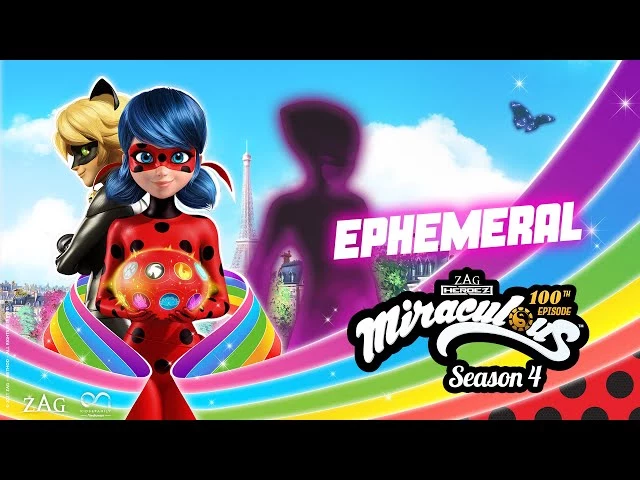
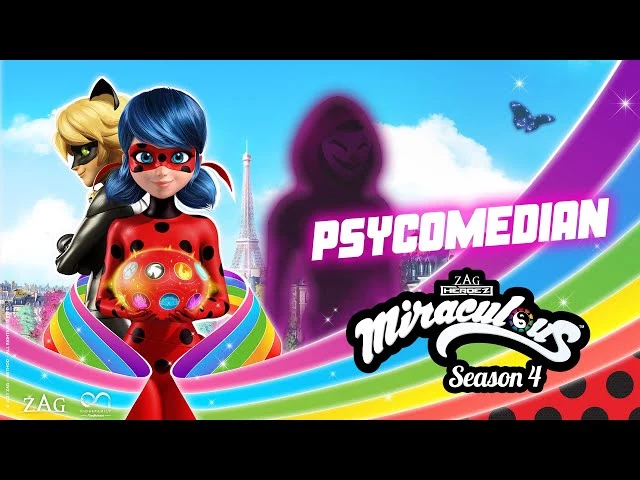
Update YouTube video and next release

Changed region(s): [[0.375, 0.1875, 0.9688, 0.7812]]

diff --git a/javascripts/script.js b/javascripts/script.js
@@ -1,6 +1,6 @@
 var oneDay = 24*60*60*1000;
 var latestRelease = new Date("2021-11-27T10:00:00-06:00"); // Newest Episode Release
-//var nextRelease = new Date("2021-11-27T09:30:00-06:00"); // Next Episode release
+var nextRelease = new Date("2022-02-05T09:30:00-06:00"); // Next Episode release
 var mode = 0; //DD:HH:MM:SS mode is default
 var lastHiatusMention = null;
 	
@@ -130,7 +130,7 @@ var hiatusList = [
 ['Miracle Queen','Truth','Nov 23 2019','May 15 2021',539,''],
 ['Mega Leech','Crocoduel','Aug 14 2021','Sep 17 2021',34,''],
 ['Crocoduel','Simpleman','Sep 17 2021','Oct 16 2021',29,''],
-['Ephemeral','???','Nov 27 2021','???','','']
+['Ephemeral','Psycomedian','Nov 27 2021','Feb 5 2022',70,'']
 ];
 	
 function hiatusRankCheck(){
@@ -192,7 +192,7 @@ window.setInterval(function(){
 	timer("up", latestRelease, "count");
 	timer("down", hiatusRankCheck(), "count2");
 	timer("up", lastHiatusMention, "count3");
-	//timer("down", nextRelease, "count4"); //Comment out when no new release date
+	timer("down", nextRelease, "count4"); //Comment out when no new release date
 }, 250);
 	
 //every 30 seconds, the most recent 100 posts on the subreddit are loaded up again in case there has been a new post that mentions hiatus

diff --git a/javascripts/youtube.js b/javascripts/youtube.js
@@ -1,4 +1,4 @@
-var youtube = document.getElementById("youtube"); //https://img.youtube.com/vi/"enter video link/sddefault.jpg
+var youtube = document.getElementById("youtube"); //https://img.youtube.com/vi/enter video link/sddefault.jpg
 var source = "images/thumbnail.webp";
 var image = new Image();
 
@@ -11,7 +11,7 @@ youtube.addEventListener( "click", function() {
   var iframe = document.createElement( "iframe" );
 	iframe.setAttribute("frameborder", "0");
 	iframe.setAttribute("allowfullscreen", "");
-	iframe.setAttribute("src", "https://www.youtube.com/embed/ZgaARjE3bjw?autoplay=1");
+	iframe.setAttribute("src", "https://www.youtube.com/embed/TqY0tk2fb8M?autoplay=1");
   this.innerHTML = "";
 	this.appendChild(iframe);
 });

diff --git a/index.html b/index.html
@@ -86,7 +86,7 @@
         <hr class="spacer">
   
         <div class="countdowns">
-          <h2>Time To Next Release<br></h2>
+          <h2>Time To Next Release<br>Psycomedian</h2>
           <h1 style="font-size:250%">
             <span id="count4">Unknown</span>
           </h1>
@@ -100,7 +100,7 @@
         </div>
   
         <div class="trailers">
-          <h2>Watch the Ephemeral Teaser</h2>
+          <h2>Watch the Psycomedian Teaser</h2>
           <div id="youtube">
             <div class="play-button"></div>
           </div>
